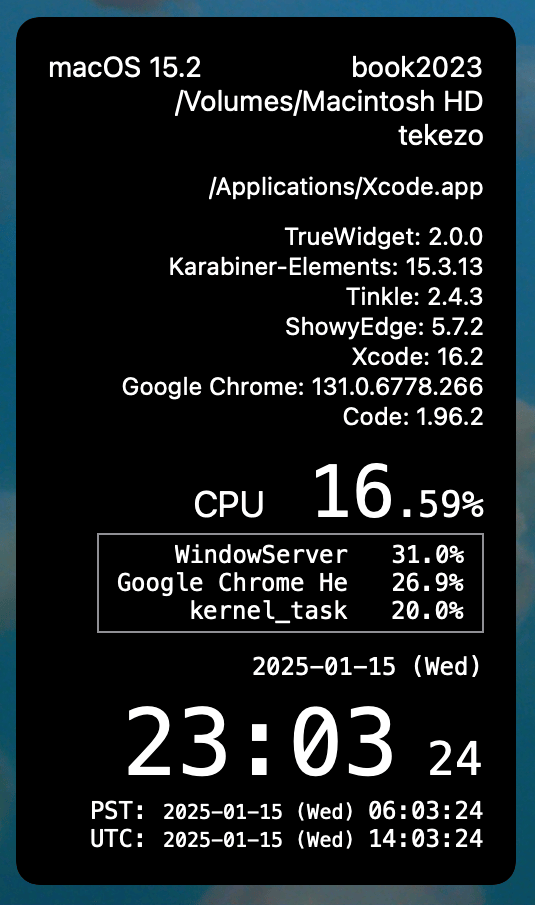
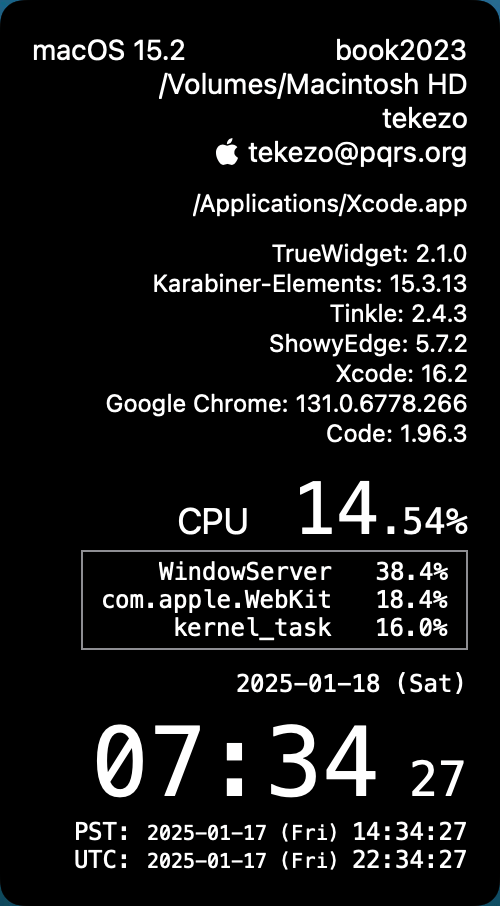
TrueWidget-2.1.0

diff --git a/sites/truewidget/content/en/_index.html b/sites/truewidget/content/en/_index.html
@@ -19,10 +19,10 @@ title = "TrueWidget"
 <div class="mt-4">
   <div class="btn-group mx-2 my-2">
     <a
-      href="https://github.com/pqrs-org/TrueWidget/releases/download/v2.0.0/TrueWidget-2.0.0.dmg"
+      href="https://github.com/pqrs-org/TrueWidget/releases/download/v2.1.0/TrueWidget-2.1.0.dmg"
       class="btn btn-primary btn-lg px-4"
     >
-      Download v2.0.0
+      Download v2.1.0
       <i class="fas fa-download ms-1"></i>
     </a>
 
@@ -38,9 +38,9 @@ title = "TrueWidget"
     <div class="dropdown-menu">
       <a
         class="dropdown-item"
-        href="https://github.com/pqrs-org/TrueWidget/releases/download/v2.0.0/TrueWidget-2.0.0.dmg"
+        href="https://github.com/pqrs-org/TrueWidget/releases/download/v2.1.0/TrueWidget-2.1.0.dmg"
       >
-        Download v2.0.0
+        Download v2.1.0
 
         <ul class="mt-2">
           <li>For macOS 13 Ventura or later</li>

diff --git a/sites/truewidget/content/en/docs/releasenotes/index.md b/sites/truewidget/content/en/docs/releasenotes/index.md
@@ -6,6 +6,15 @@ exclude_search: true
 body_class: release-notes
 ---
 
+## TrueWidget 2.1.0
+
+-   [📦 Download](https://github.com/pqrs-org/TrueWidget/releases/download/v2.1.0/TrueWidget-2.1.0.dmg)
+-   📅 Release date
+    -   Jan 17, 2025
+-   ✨ New Features
+    -   Added a feature to display the Apple Account.
+        {{< local-image src="images/v2.1.0/apple-account@2x.png" >}}
+
 ## TrueWidget 2.0.0
 
 -   [📦 Download](https://github.com/pqrs-org/TrueWidget/releases/download/v2.0.0/TrueWidget-2.0.0.dmg)
@@ -55,7 +64,7 @@ body_class: release-notes
     -   Added option to show user name.
 -   ⚡ Improvements
     -   Supported the security update version in macOS version display.
-        {{< local-image src="images/v1.3.0@2x.png" >}}
+        {{< local-image src="images/v1.3.0/v1.3.0@2x.png" >}}
     -   Sparkle Framework has been updated.
 
 ## TrueWidget 1.2.0
